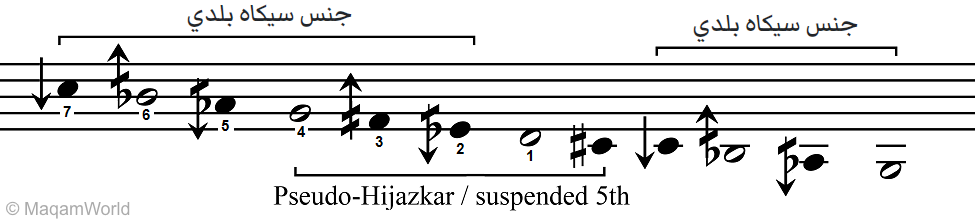
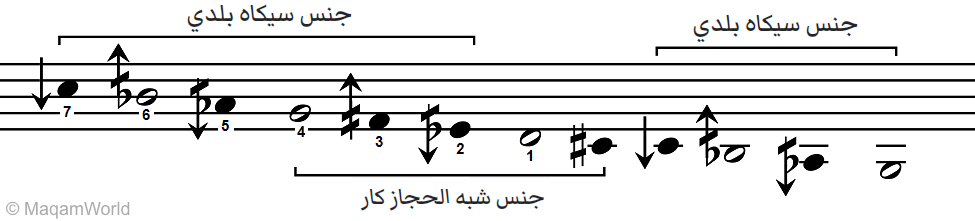
more arabic ajnas

Changed region(s): [[0.2769, 0.8416, 0.6462, 0.9502]]

diff --git a/ar/maqam/sikah_baladi.php b/ar/maqam/sikah_baladi.php
@@ -60,13 +60,17 @@ include($ROOT . 'inc/head.php');
                       <area shape="rect" coords="692,16,856,46" href="../jins/sikah_baladi.php" class="mapLink" data-parent="#notation1">
                       <area shape="rect" coords="272,184,636,213" href="../jins/hijazkar.php" class="mapLink" data-parent="#notation1">
                       </map>
+		<br>
 
-                    <h5>مقام سيكاه بلدي is arguably the most challenging Arabic maqam.
-                    Its scale (and sayr) is something of a hybrid between a transposition of <a href="huzam.php">مقام هُزام</a>
-                    to an ordinary non-Sikah note, and <a href="hijazkar.php">مقام حجازكار</a> – the intervals
-                    are not quite the same as either, but it sounds a bit like both.
-                    None of its intervals match either just or equal-tempered intonation, making it impossible to reproduce
-                    on anything but the voice and fretless instruments.</h5>
+                     <h5>
+		مقام سيكاه بلدي هو من اصعب المقامات العربية عزفاً.
+		سلّم هذا المقام وسيره مزيج بين <a href="huzam.php">مقام هُزام</a> (المصوّر الى علامة غير علامة السيكاه)
+		ومقام <a href="hijazkar.php">مقام حجازكار</a> (مع تعديل بعض المسافات)،
+		والنتيجة هي مقام يشبه هذين المقامين.
+		اما المسافات في سلّم مقام سيكاه بلدي فأي منها لا يطابق مسافات الصوت او نصف الصوت كما في السلّم الغربي المتساوي الابعاد،
+		لذلك لا يمكن ان يُعزف هذا المقام بدقة واخلاص على اية آلات غربية او مشرّقة.
+		</h5>
+		<br>
 
                     <div class="player-area">
                         <audio id="player" controls>

diff --git a/de/maqam/sikah_baladi.php b/de/maqam/sikah_baladi.php
@@ -1,4 +1,4 @@
-<?php
+<?php
 
 /* Must be relative path */
 include('../../inc/config.php');
@@ -68,7 +68,7 @@ include($ROOT . 'inc/head.php');
 
                     <p>Maqam Sikah Baladi ist vermutlich die stärkste Herausforderung unter den arabischen Maqamat. Seine Leiter und sein Sayr sind ein Hybrid aus einer Transposition von <a href="huzam.php">Maqam Huzam</a> zu einem einfachen Nicht-Sikah-Ton und <a href="hijazkar.php">Maqam Hijazkar</a>. </p>
                     
-                    <p>Die Intervalle sind mit beiden nicht vollständig identisch, aber Maqam Sikah Baladi klingt ein bisschen wie beide. Keines seiner Intervalle lässt sich wohltemperiert spielen, weswegen er nur auf bundlosen Instrumenten und mit der Stimme richtig wiedergegeben werden kann.</p>
+                    <p>Die Intervalle sind mit beiden nicht vollständig identisch, aber Maqam Sikah Baladi klingt ein bisschen wie beide. Keines seiner Intervalle lässt sich wohltemperiert spielen, weswegen er nur auf <a href="../instr.php">Traditionelle Arabische Instrumenten</a> und mit der Stimme richtig wiedergegeben werden kann.</p>
 
                     <div class="player-area">
                         <audio id="player" controls>

diff --git a/en/maqam/sikah_baladi.php b/en/maqam/sikah_baladi.php
@@ -1,4 +1,4 @@
-<?php
+<?php
 
 /* Must be relative path */
 include('../../inc/config.php');
@@ -71,7 +71,7 @@ include($ROOT . 'inc/head.php');
                     to an ordinary non-Sikah note, and <a href="hijazkar.php">Maqam Hijazkar</a> – the intervals
                     are not quite the same as either, but it sounds a bit like both.
                     None of its intervals match either just or equal-tempered intonation, making it impossible to reproduce
-                    on anything but the voice and fretless instruments.</p>
+                    on anything but the voice and <a href="../instr.php">traditional Arabic instruments</a>.</p>
 
                     <div class="player-area">
                         <audio id="player" controls>
